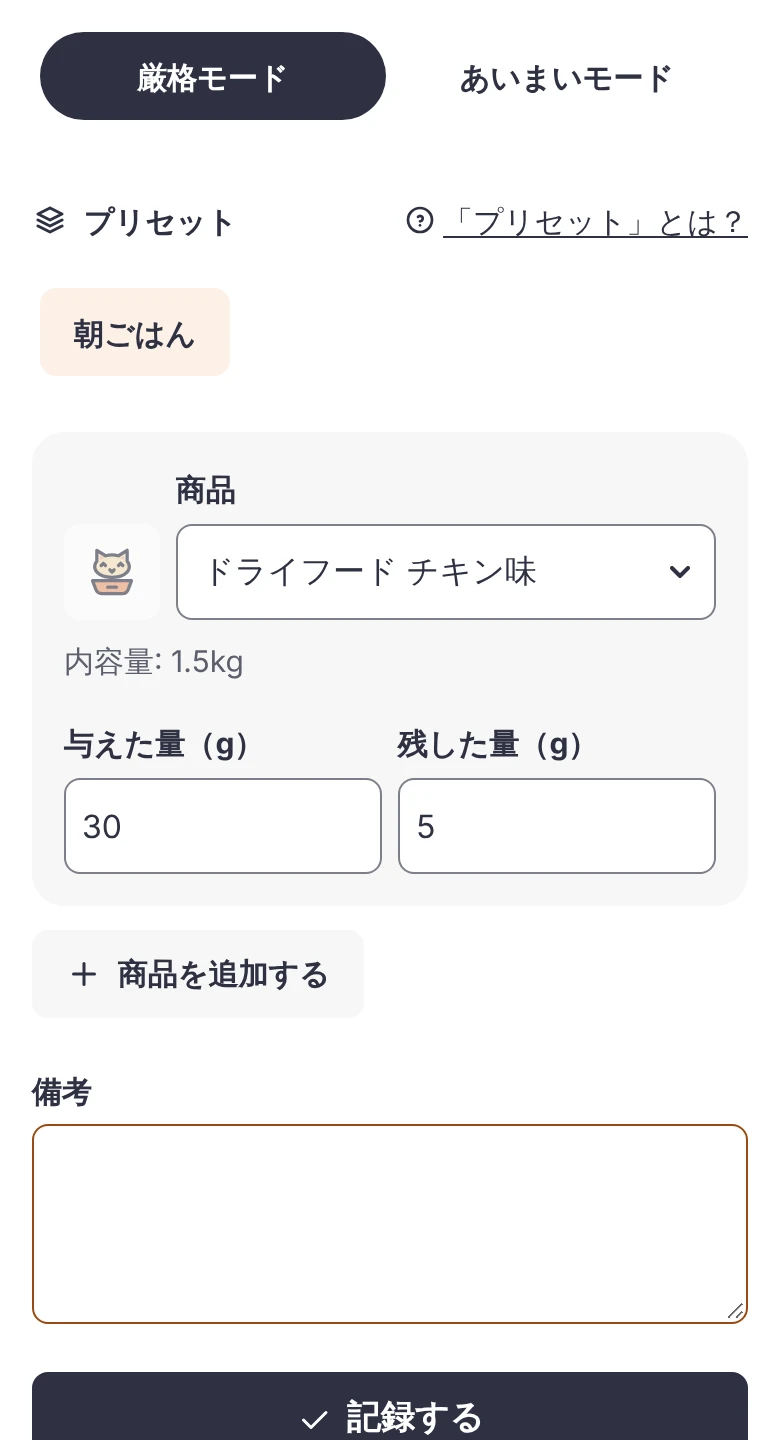
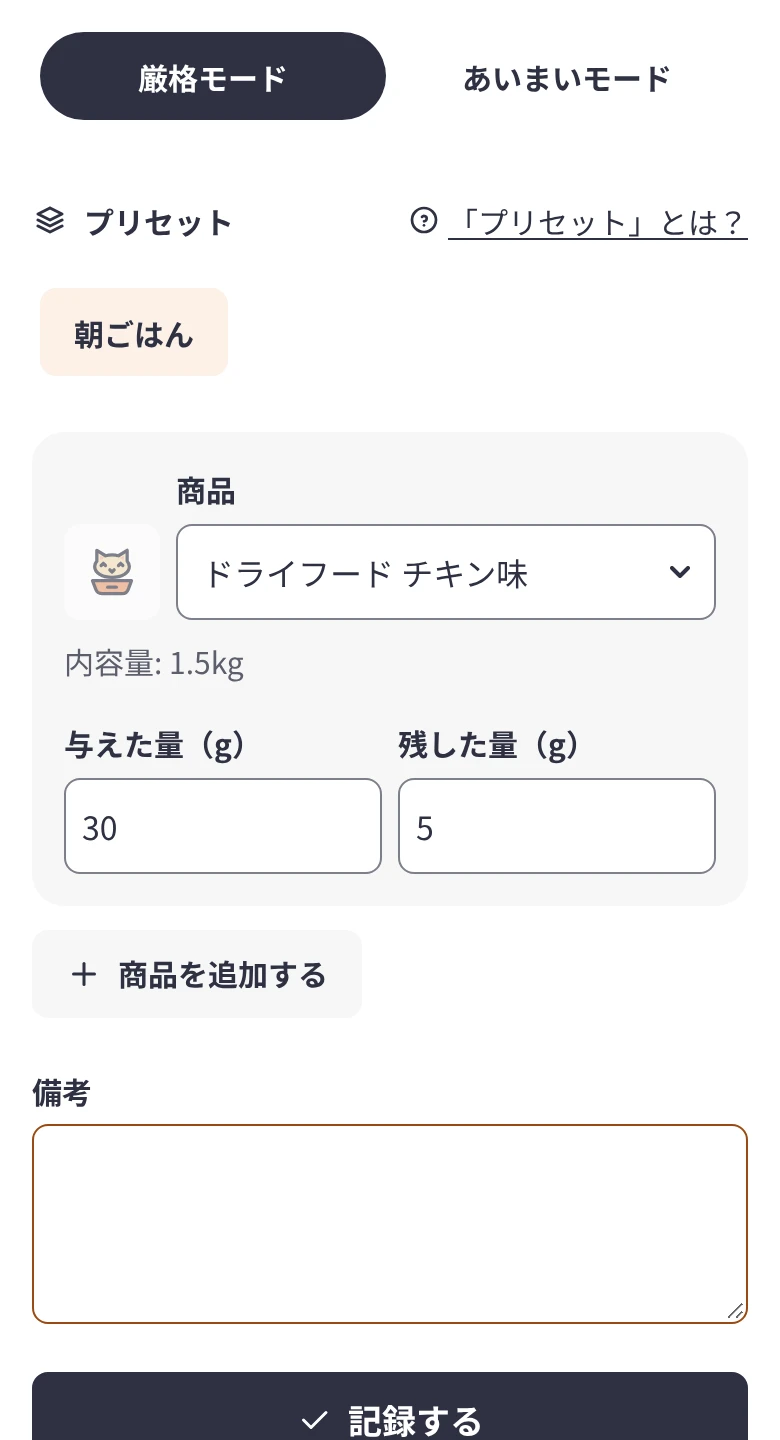
ヘルプのスクリーンショットを日本語のフォントで撮り直す
撮影する環境の既定のフォントが中国語のフォントのとき、スクリーンショットの日本語が
中国語の字形になっていた。撮影時は Google Fonts から Noto Sans JP を読み込み、
環境によらず日本語の字形で撮るようにした。

あわせて、MCP の同意画面のヘッダーを同意画面へのリクエストだけに付ける（フォントの取得に
付くと CORS で失敗するため）、ごはんプリセットの登録後の遷移を厳密に待つ、などを直した。

Claude-Session: https://claude.ai/code/session_01GXATvj4YeCzNZHKqX6ZpqJ

diff --git a/e2e/help-screenshots.capture.ts b/e2e/help-screenshots.capture.ts
@@ -32,12 +32,38 @@ const CAT_NAME = "こむぎ";
 const FOOD_PRODUCT_NAME = "ドライフード チキン味";
 const PRESET_NAME = "朝ごはん";
 
+const JAPANESE_FONT_CSS_URL =
+  "https://fonts.googleapis.com/css2?family=Noto+Sans+JP:wght@400;700&display=block";
+
 const captured = new Set<HelpScreenshotName>();
 
 /** 撮影の邪魔になる要素（開発用のオーバーレイ・遷移中のバー）を隠す */
 async function hideOverlays(page: Page) {
   await page.addStyleTag({
     content: "nextjs-portal, .bprogress { display: none !important; }",
+  });
+}
+
+/**
+ * 日本語のフォントを Noto Sans JP（アプリのフォントの指定にも含まれる）にそろえる。
+ * フォントの指定の先頭は system-ui のため、撮影する環境の既定のフォントで描かれ、Linux では
+ * 中国語のフォントの字形になることがある。環境によらず同じ見た目で撮れるよう、Web フォントを読み込む
+ */
+async function useJapaneseFont(page: Page) {
+  await page.addStyleTag({
+    content: `@import url("${JAPANESE_FONT_CSS_URL}");
+:root { --font-sans: "Noto Sans JP", sans-serif !important; }
+input, textarea, select, button { font-family: inherit; }`,
+  });
+  await page.evaluate(async () => {
+    // 画面にある文字の分だけ読み込まれるため、表示中の文字を指定して読み込みを待つ
+    const text = document.body.innerText;
+    await Promise.all(
+      ["400", "700"].map((weight) =>
+        document.fonts.load(`${weight} 16px "Noto Sans JP"`, text),
+      ),
+    );
+    await document.fonts.ready;
   });
 }
 
@@ -58,6 +84,7 @@ async function highlight(locator: Locator) {
 async function capture(page: Page, name: HelpScreenshotName) {
   await expect(page.locator('[aria-busy="true"]')).toHaveCount(0);
   await hideOverlays(page);
+  await useJapaneseFont(page);
   // 最後に入力した欄のフォーカスの枠が写らないようにする（押す場所は highlight の枠で示す）
   await page.evaluate(() => {
     if (document.activeElement instanceof HTMLElement) {
@@ -154,7 +181,7 @@ test("ヘルプのスクリーンショットを撮る", async ({ page }) => {
   await expect(async () => {
     await issueButton.click();
     await expect(page.getByRole("dialog")).toBeVisible({ timeout: 2000 });
-  }).toPass();
+  }).toPass({ timeout: 30_000 });
   // 招待 URL は撮るたびに変わり、開発環境のアドレスでもあるため、例の URL に置き換えて撮る
   await page
     .getByRole("dialog")
@@ -215,7 +242,7 @@ test("ヘルプのスクリーンショットを撮る", async ({ page }) => {
   await fillAndKeep(page.getByLabel("与える量（g）"), "30");
   await capture(page, "feeding-preset-new");
   await page.getByRole("button", { name: "登録する" }).click();
-  await expect(page).toHaveURL(/feeding-presets/);
+  await expect(page).toHaveURL(/\/feeding-presets(\?.*)?$/);
 
   // ごはん記録
   await page.goto(`${catPath}/feeding-records/new`);
@@ -225,7 +252,7 @@ test("ヘルプのスクリーンショットを撮る", async ({ page }) => {
     await expect(page.getByLabel("与えた量（g）")).toHaveValue("30", {
       timeout: 1000,
     });
-  }).toPass();
+  }).toPass({ timeout: 30_000 });
   await highlight(presetButton);
   await capture(page, "record-feeding");
   await presetButton.evaluate((element) => {
@@ -322,6 +349,31 @@ test("ヘルプのスクリーンショットを撮る", async ({ page }) => {
   ).toBeVisible();
   await capture(page, "timeline");
 
+  // AI との接続の同意画面。本番では Worker が付けるヘッダーを、ここでは自分で付けて開く。
+  // setExtraHTTPHeaders だとフォントなどほかのサイトへのリクエストにも付き、CORS で読み込めなく
+  // なるため、同意画面へのリクエストだけに付ける。通知の撮影で Service Worker を登録すると、
+  // リクエストが Service Worker を通って page.route で書き換えられなくなるため、通知より先に撮る
+  const isConsentPage = (url: URL) => url.pathname === "/oauth/authorize";
+  const consentHeader = encodeMcpConsentRequest({
+    clientId: "help-client",
+    clientName: "ChatGPT",
+    redirectUri: "https://chatgpt.com/connector/oauth/callback",
+  });
+  await page.route(isConsentPage, (route) =>
+    route.continue({
+      headers: {
+        ...route.request().headers(),
+        [MCP_CONSENT_HEADER]: consentHeader,
+      },
+    }),
+  );
+  await page.goto(
+    "/oauth/authorize?response_type=code&client_id=help-client&redirect_uri=https%3A%2F%2Fchatgpt.com%2Fconnector%2Foauth%2Fcallback&state=help",
+  );
+  await expect(page.getByRole("button", { name: "許可する" })).toBeVisible();
+  await capture(page, "ai-consent");
+  await page.unroute(isConsentPage);
+
   // 通知。next dev では Service Worker を登録しないため、通知の設定の確認が終わるよう自分で登録する
   await page.goto("/settings/notifications");
   await page.evaluate(() => navigator.serviceWorker.register("/sw.js"));
@@ -342,21 +394,6 @@ test("ヘルプのスクリーンショットを撮る", async ({ page }) => {
   await page.goto(`${catPath}/notification-settings`);
   await expect(page.getByRole("button", { name: "保存する" })).toBeVisible();
   await capture(page, "cat-notification-settings");
-
-  // AI との接続の同意画面。本番では Worker が付けるヘッダーを、ここでは自分で付けて開く
-  await page.setExtraHTTPHeaders({
-    [MCP_CONSENT_HEADER]: encodeMcpConsentRequest({
-      clientId: "help-client",
-      clientName: "ChatGPT",
-      redirectUri: "https://chatgpt.com/connector/oauth/callback",
-    }),
-  });
-  await page.goto(
-    "/oauth/authorize?response_type=code&client_id=help-client&redirect_uri=https%3A%2F%2Fchatgpt.com%2Fconnector%2Foauth%2Fcallback&state=help",
-  );
-  await expect(page.getByRole("button", { name: "許可する" })).toBeVisible();
-  await capture(page, "ai-consent");
-  await page.setExtraHTTPHeaders({});
 
   // 撮り漏れがないことを確かめる
   expect(HELP_SCREENSHOT_NAMES.filter((name) => !captured.has(name))).toEqual(

diff --git a/src/features/help/README.md b/src/features/help/README.md
@@ -22,6 +22,8 @@ pnpm help:screenshots
 ```
 
 `pnpm help:screenshots` は `pnpm dev` を起動して `e2e/help-screenshots.capture.ts` を実行する。
+撮影する環境のフォントによらず同じ見た目になるよう、撮影時は Google Fonts から Noto Sans JP を読み込んで
+日本語のフォントをそろえる（インターネットに接続できる環境で実行すること）。
 起動済みの dev サーバーを使う場合は、通知設定の画面を撮れるよう
 `NEXT_PUBLIC_VAPID_PUBLIC_KEY=help-screenshots pnpm dev` で起動しておくこと
 （`playwright.help-screenshots.config.ts` 参照）。
